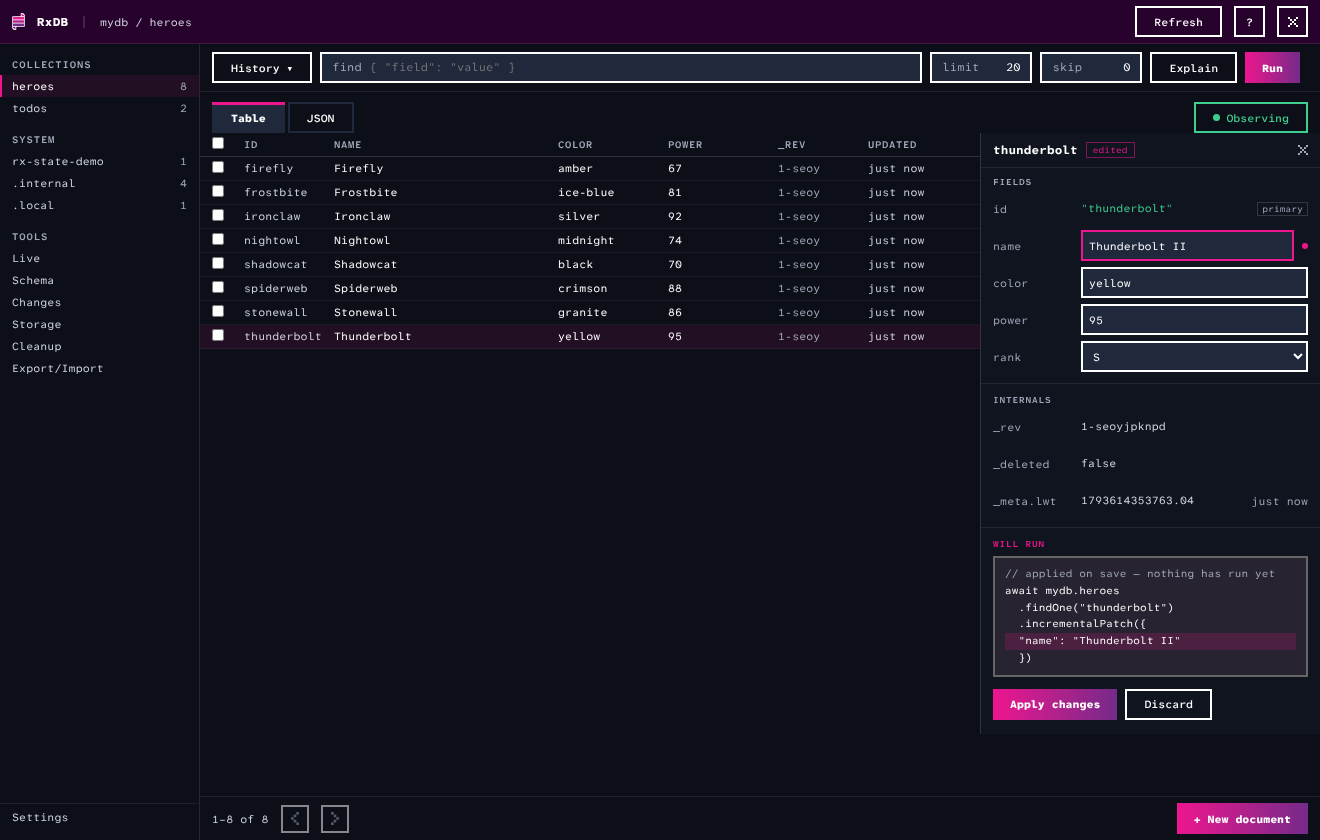
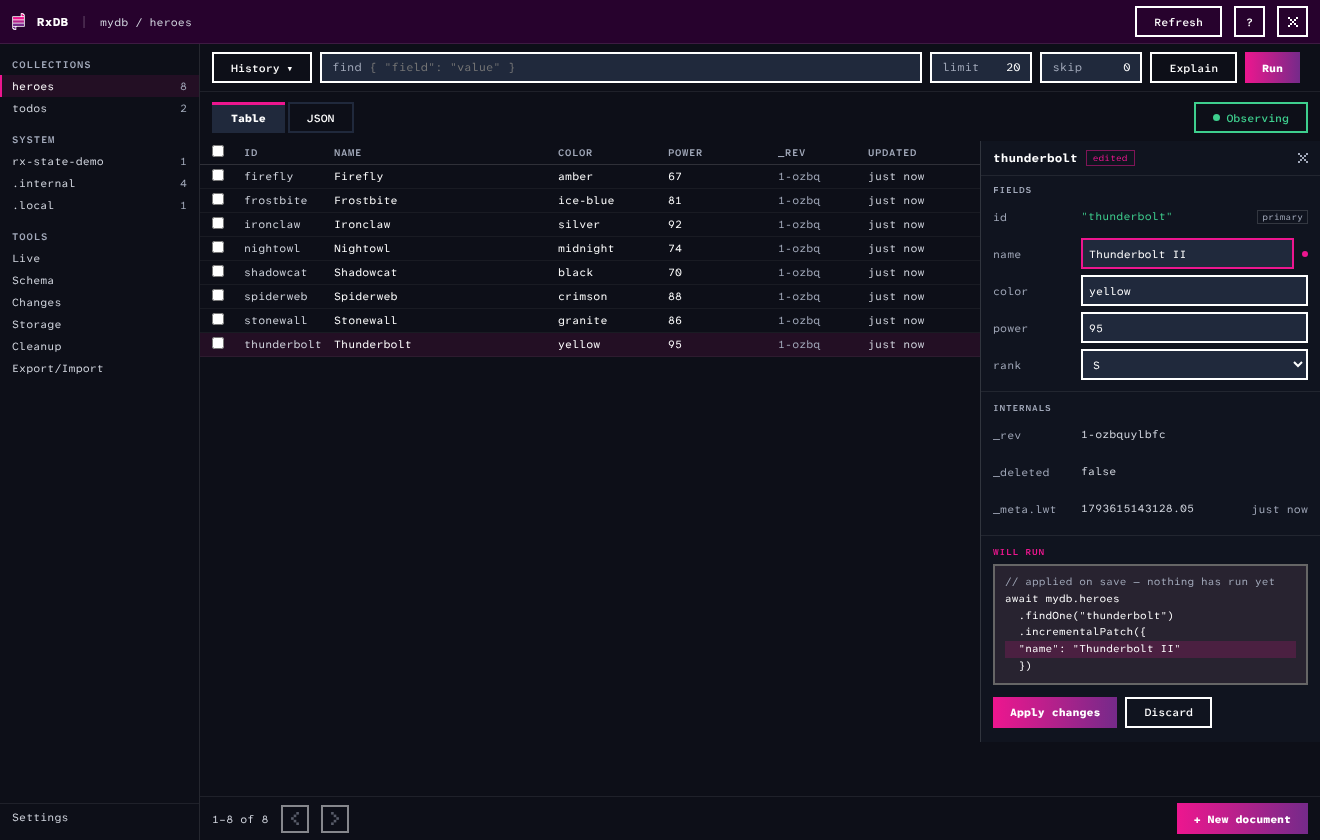
FIX spacing below the dbviewer tabs row
The Table/JSON tabs row gets 8px bottom padding so the Observe button
does not touch the grid header.

Claude-Session: https://claude.ai/code/session_01XSWnG8xBeMGgwaLKniRnyJ

diff --git a/docs-src/dbviewer/styles.ts b/docs-src/dbviewer/styles.ts
@@ -275,7 +275,7 @@ export const DBVIEWER_STYLES = `
  * brand color.
  */
 /* the tab row sits directly above the content box */
-.rxdbv-tabs-row { display: flex; align-items: center; padding: 10px 12px 0; }
+.rxdbv-tabs-row { display: flex; align-items: center; padding: 10px 12px 8px; }
 .rxdbv-tabs {
     display: inline-flex;
     align-items: stretch;
